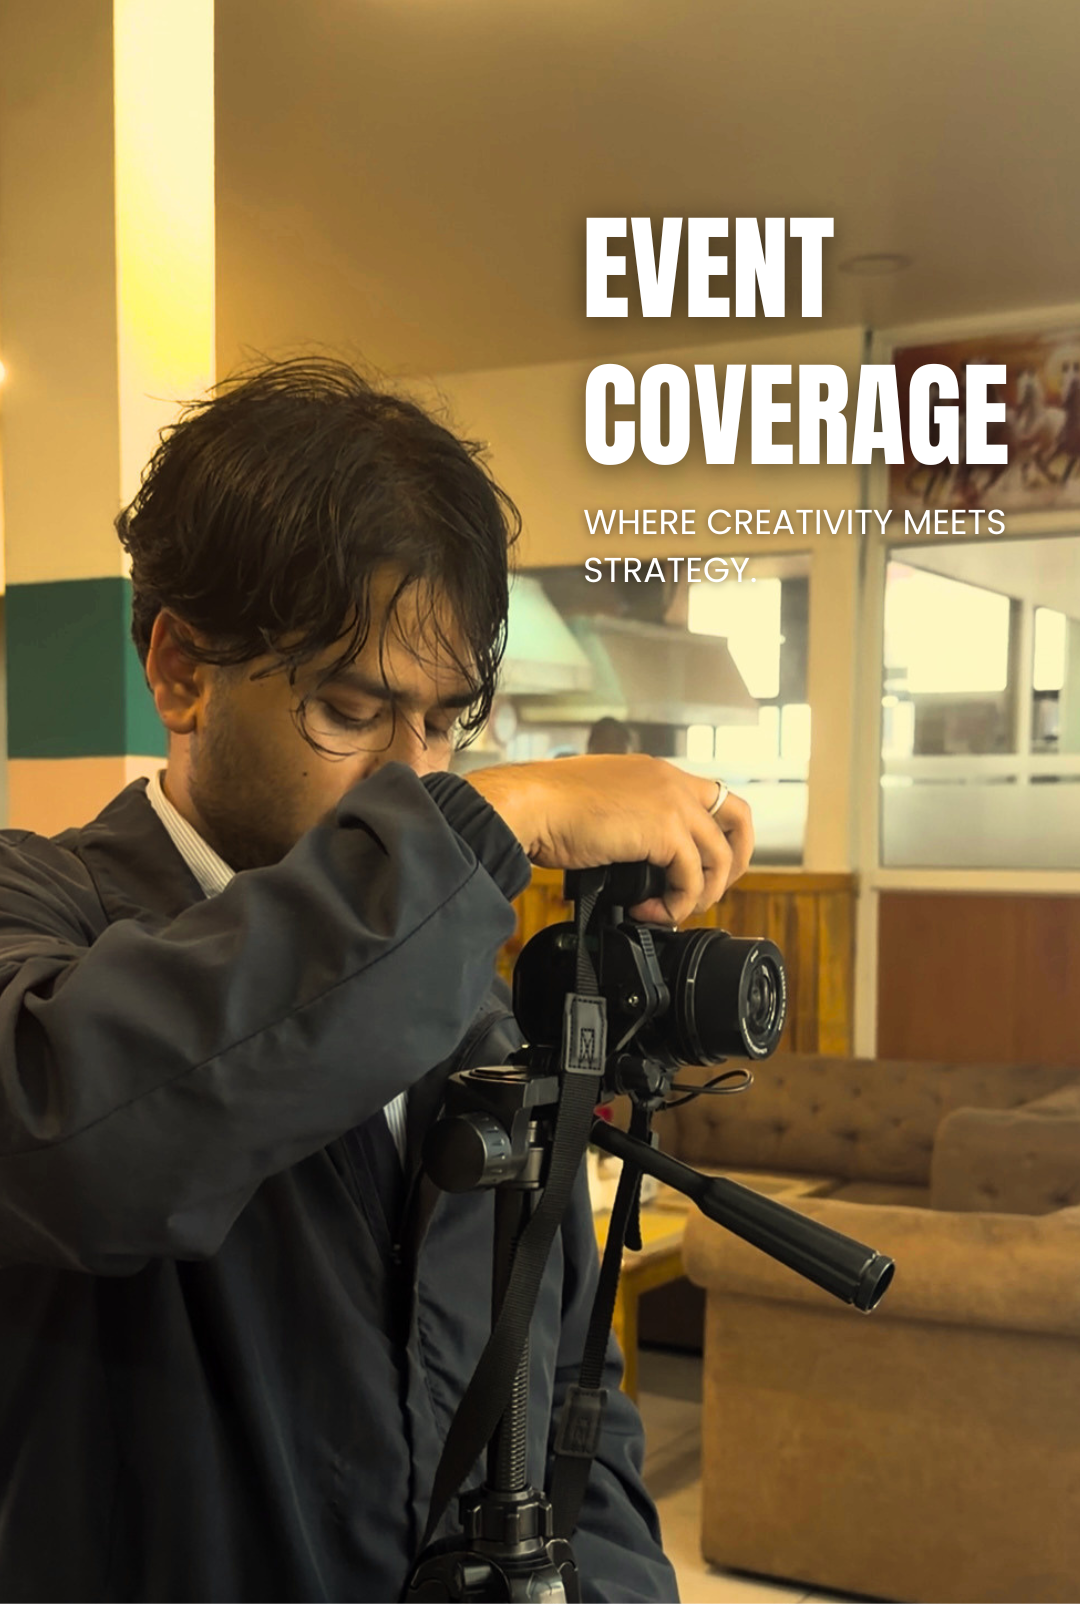
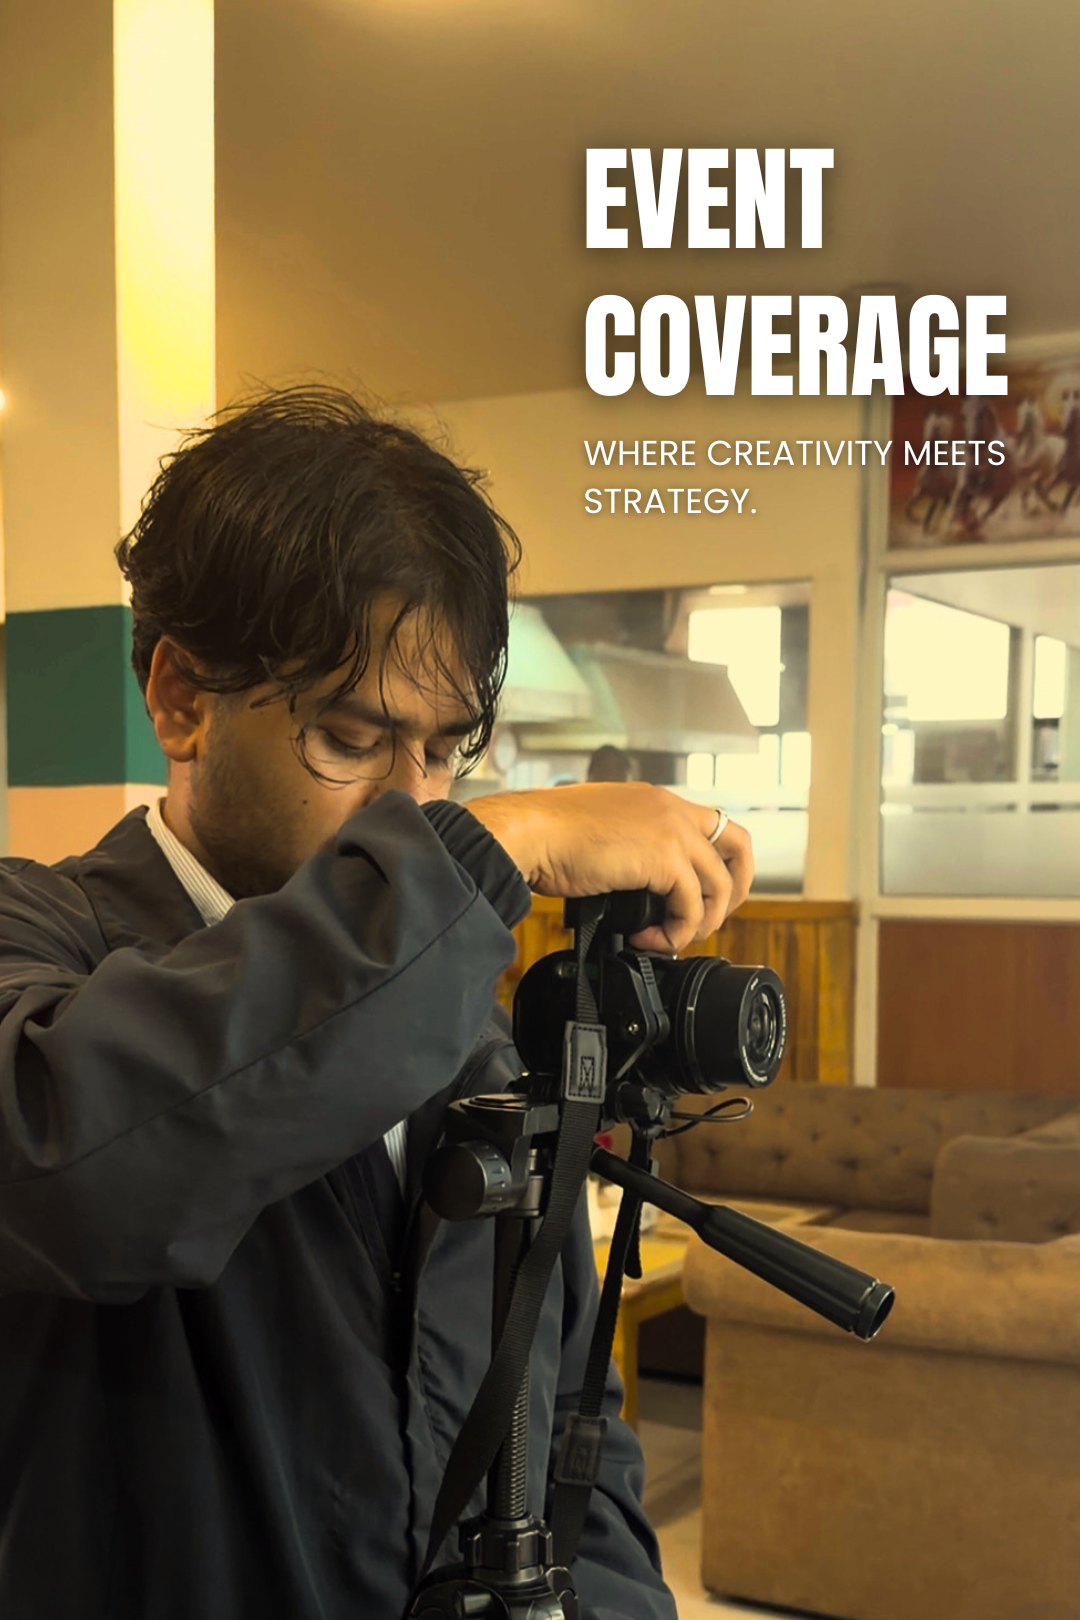
QA issue fixed

diff --git a/src/app/page.tsx b/src/app/page.tsx
@@ -20,7 +20,7 @@ export default function Home() {
       "image": "https://nexshift.com.np/nst-logo.png",
       "description": "NexShift is Nepal's premier event management company and creative digital marketing agency based in Kathmandu. Specialized in corporate events, brand films, performance marketing, SEO, social media management, videography, and custom web development.",
       "telephone": "+977-9818633814",
-      "email": "info@nexshift.com.np",
+      "email": "media.nexshift@gmail.com",
       "priceRange": "$$",
       "address": {
         "@type": "PostalAddress",
@@ -50,7 +50,7 @@ export default function Home() {
         "@type": "ContactPoint",
         "contactType": "customer service",
         "telephone": "+977-9818633814",
-        "email": "info@nexshift.com.np",
+        "email": "media.nexshift@gmail.com",
         "availableLanguage": ["English", "Nepali"]
       },
       "aggregateRating": {

diff --git a/src/components/landing/ContactSection.tsx b/src/components/landing/ContactSection.tsx
@@ -53,11 +53,11 @@ export default function ContactSection() {
                   <div className="flex flex-col items-center lg:items-start space-y-2">
                     <span className="text-xs md:text-sm tracking-[0.2em] uppercase font-bold text-gray-500">Email Us</span>
                     <a
-                      href="mailto:info@nexshift.com.np"
+                      href="mailto:media.nexshift@gmail.com"
                       itemProp="email"
                       className="text-xl sm:text-2xl lg:text-3xl font-bold text-[#154880] tracking-tight hover:text-[#0D7A95] transition-colors duration-300 decoration-[#14A9D6] underline-offset-8 hover:underline"
                     >
-                      info@nexshift.com.np
+                      media.nexshift@gmail.com
                     </a>
                   </div>
                 </ScrollReveal>

diff --git a/src/components/about/FaqSection.tsx b/src/components/about/FaqSection.tsx
@@ -35,7 +35,7 @@ export default function FaqSection() {
     },
     {
       q: "Where is NexShift located and how can I contact them?",
-      a: "NexShift is located in New Baneshwor, Kathmandu, Nepal. You can contact us directly via phone at +977-9818633814, email us at info@nexshift.com.np, or visit our office."
+      a: "NexShift is located in New Baneshwor, Kathmandu, Nepal. You can contact us directly via phone at +977-9818633814, email us at media.nexshift@gmail.com, or visit our office."
     },
     {
       q: "Do you work with clients outside Kathmandu?",

diff --git a/src/components/common/IntroOverlay.tsx b/src/components/common/IntroOverlay.tsx
@@ -62,6 +62,7 @@ export default function IntroOverlay() {
             muted
             playsInline
             loop
+            preload="auto"
             className="absolute inset-0 w-full h-full object-cover pointer-events-none"
           >
             <source src="/video-cut.mp4" type="video/mp4" />
